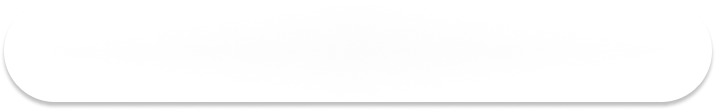
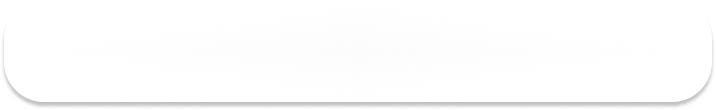
finished load view (for now)

Changed region(s): [[0.9218, 0.6, 1.0, 0.9545], [0.0, 0.6545, 0.0615, 0.9545]]

diff --git a/src/gui/main.py b/src/gui/main.py
@@ -207,25 +207,23 @@ class GUI():
 					filename = dpg.get_item_label(buttonId - 1)
 					self.logger.debugMsg(f"Deleting save '{filename}'")
 					if self.core.deleteSave(filename):
-						dpg.delete_item(buttonId+1)
-						dpg.delete_item(buttonId)
-						dpg.set_value(buttonId-1,"[DELETED]")
+						self.switchState("LOAD")
 				self.mainbar = dpg.add_image(texture_tag=self.textures["bar"],parent=self.mainWindow,pos=[0,0])
 				dpg.add_image(texture_tag=self.textures["small-title"],parent=self.mainWindow,pos=[468,4])
 				exit_button = dpg.add_image_button(label="button-exit",texture_tag=self.textures["button-exit"],parent=self.mainWindow,pos=[1060,5],callback=self.closeGUI)
-				dpg.add_image(texture_tag=self.textures["main-background"],parent=self.mainWindow,pos=[0,0])
-				back_button = dpg.add_image_button(label="button-back",texture_tag=self.textures["button-back"],parent=self.mainWindow,pos=[489,635],callback=lambda: self.switchState("MAIN"))
 				fileWindow = dpg.add_child_window(parent=self.mainWindow,width=730,height=520,pos=[194,70],no_scrollbar=False)
-				dpg.bind_item_theme(back_button,self.search_ui_theme)
 				dpg.bind_item_theme(fileWindow,self.load_theme)
 				for (_, _, filenames) in walk("./saves"):
 					files = [filename.replace(".pickle","") for filename in filenames if filename.endswith(".pickle")]
 				if len(files) == 0:
-					# TODO | Make this "No Files found" sreen better
-					hintText = dpg.add_text(default_value="No Saves found :c",parent=fileWindow,pos=[0,0])
-					dpg.bind_item_font(hintText,self.load_font)
+					dpg.add_image(texture_tag=self.textures["load-no-saves-background"],parent=self.mainWindow,pos=[0,0])
+					back_button = dpg.add_image_button(label="button-back",texture_tag=self.textures["button-back"],parent=self.mainWindow,pos=[489,635],callback=lambda: self.switchState("MAIN"))
+					dpg.bind_item_theme(back_button,self.search_ui_theme)
 					return
 				yGap = 114
+				dpg.add_image(texture_tag=self.textures["main-background"],parent=self.mainWindow,pos=[0,0])
+				back_button = dpg.add_image_button(label="button-back",texture_tag=self.textures["button-back"],parent=self.mainWindow,pos=[489,635],callback=lambda: self.switchState("MAIN"))
+				dpg.bind_item_theme(back_button,self.search_ui_theme)
 				for hintText,index in zip(files,range(0,len(files))):
 					dpg.add_image(texture_tag=self.textures["file-background"],parent=fileWindow)
 					hintText = dpg.add_text(default_value=hintText,label=hintText,parent=fileWindow,pos=[24,16 + index * yGap])
